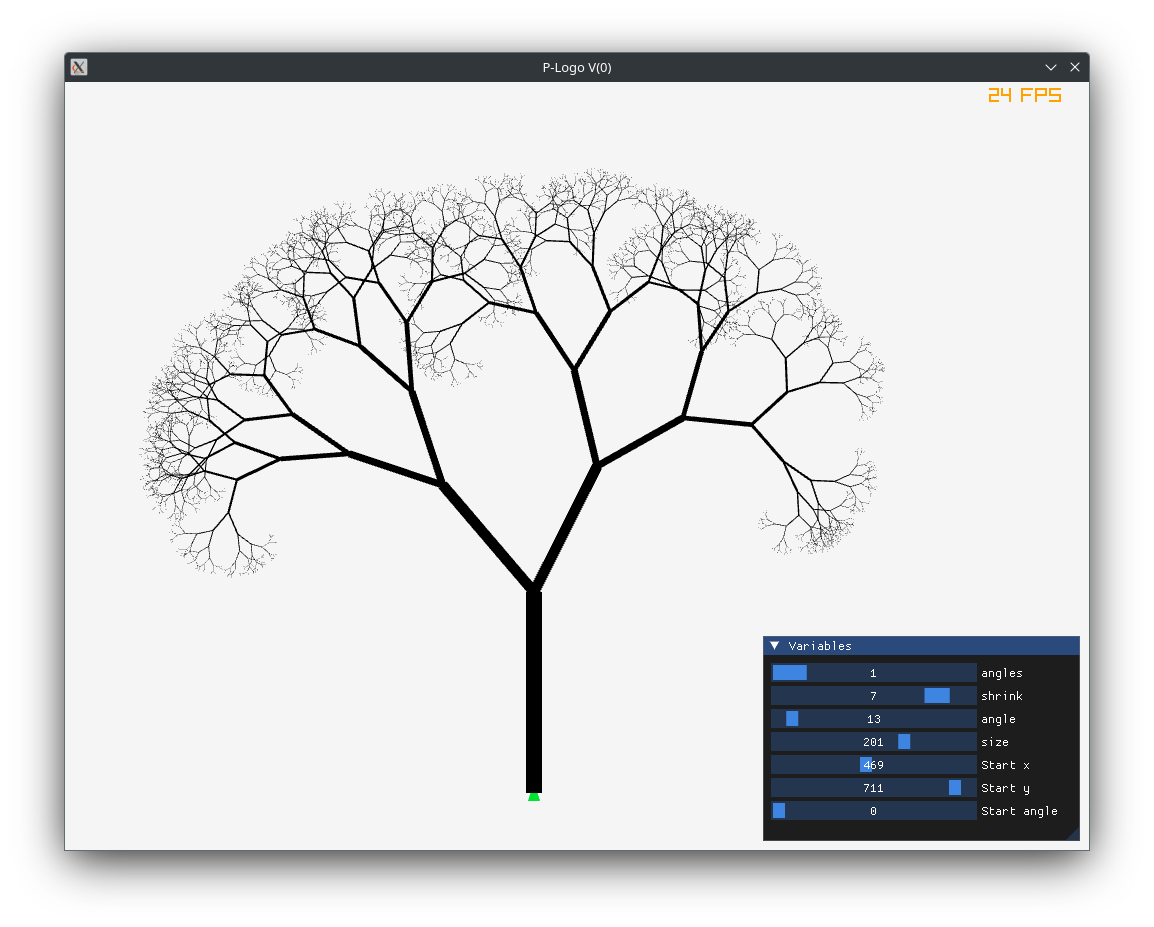
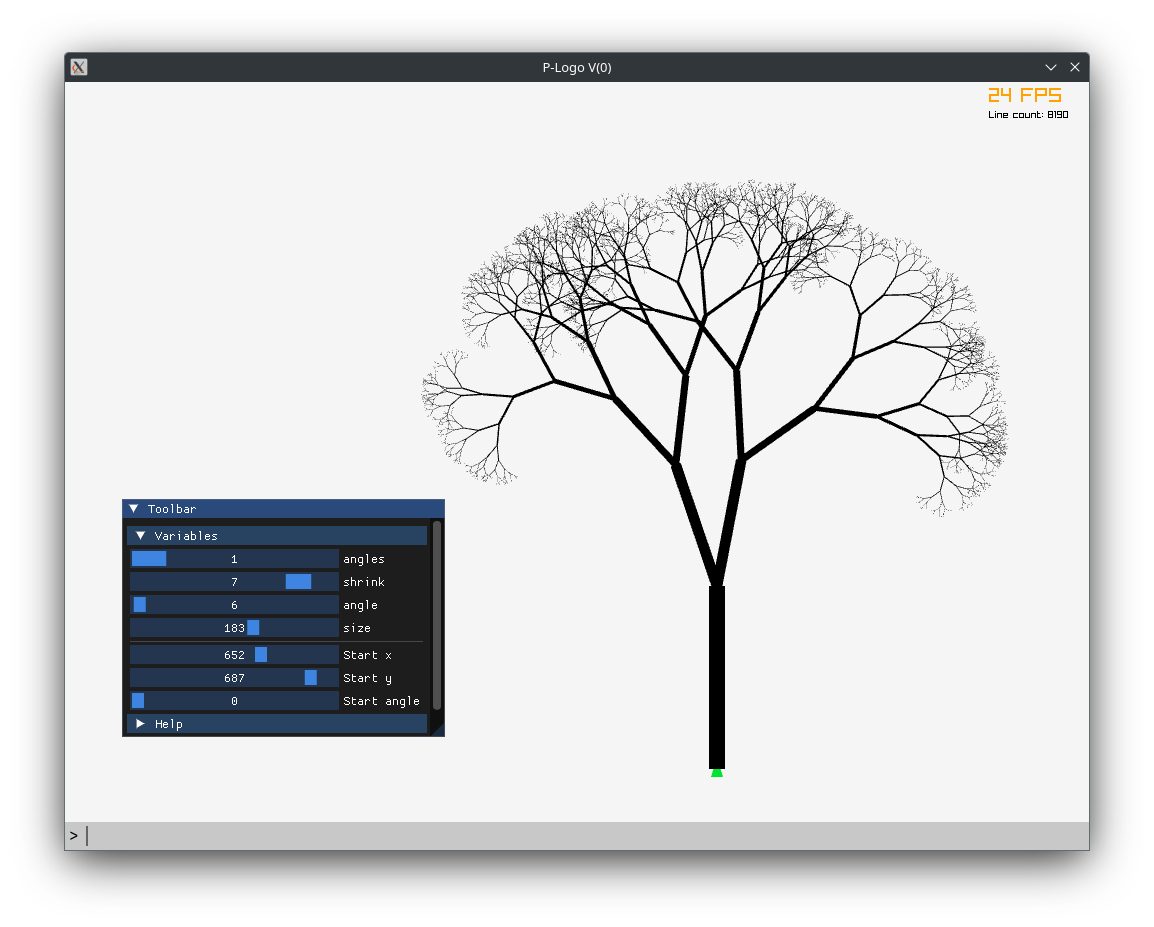
Examples

Changed region(s): [[0.0312, 0.1812, 0.9671, 0.9364], [0.6863, 0.5135, 0.7487, 0.6041]]

diff --git a/README.md b/README.md
@@ -43,4 +43,14 @@ intvar("limit", 0.5, 5, 1)
 leaf(size, angle, iter, dec, limit)
 ```
 
-![Leaf fractal](./misc/frac_leaf.png)
+![Leaf fractal](./misc/frac_leaf_gen.png)
+
+## Examples
+
+![Hilbert space filling curve](./misc/frac_hilbert.png)
+
+![Tree fractal](./misc/frac_tree_vars.png)
+
+![Triangle fractal](./misc/frac_triangle.png)
+
+![Zigzag fractal](./misc/frac_zigzag.png)
